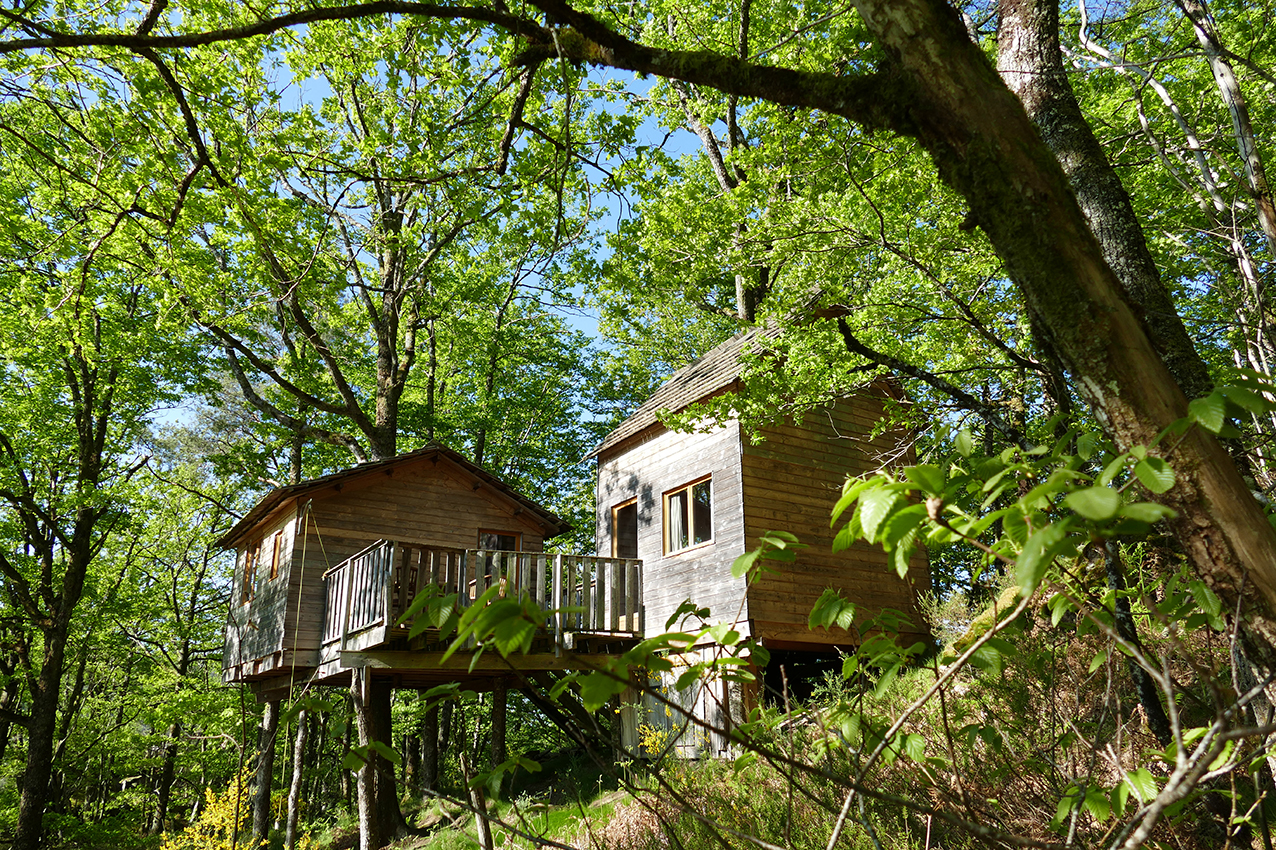
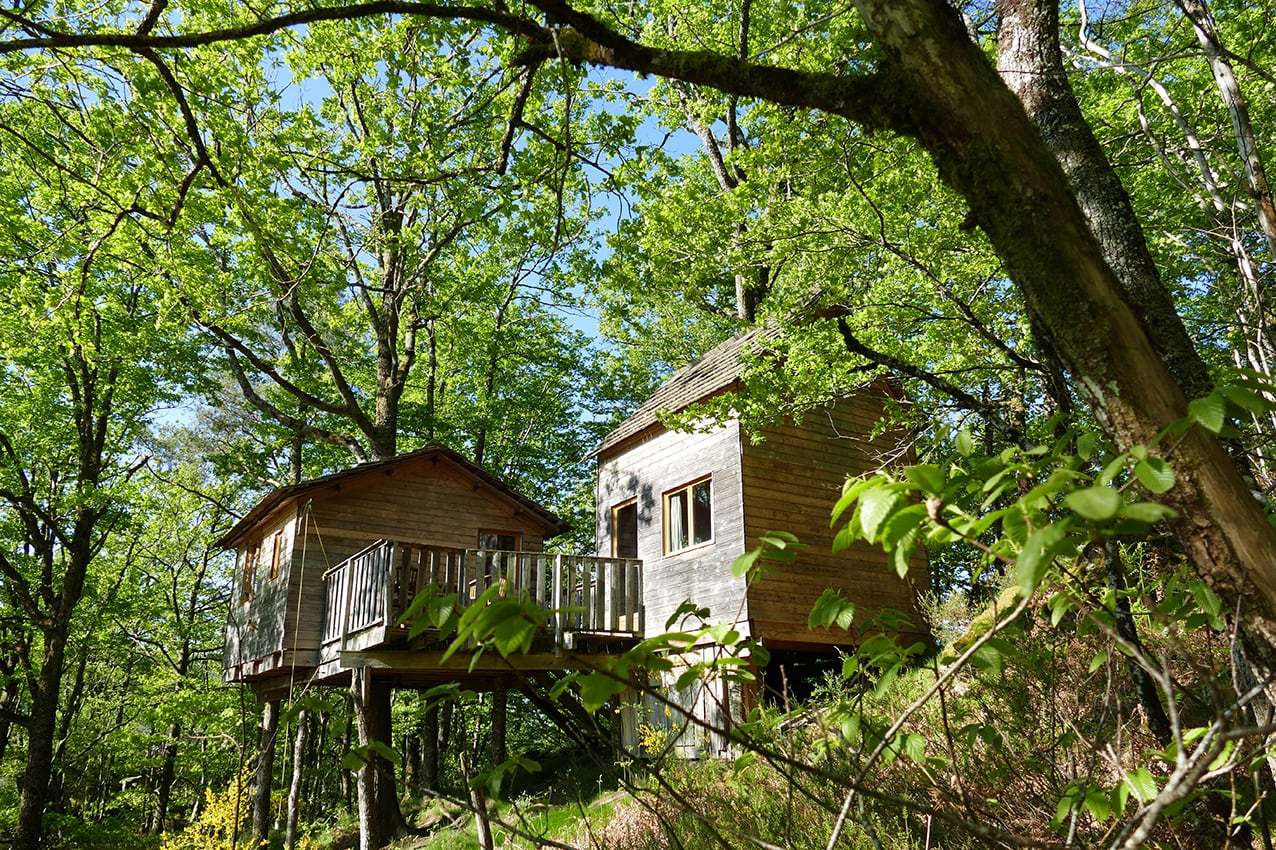
Revert gatsby-plugin-sharp config to default and reduce photos sizes

diff --git a/gatsby-config.js b/gatsby-config.js
@@ -31,14 +31,7 @@ module.exports = {
       },
     },
     'gatsby-plugin-image',
-    {
-      resolve: `gatsby-plugin-sharp`,
-      options: {
-        defaults: {
-          formats: [`auto`, `jpg`],
-        },
-      },
-    },
+    'gatsby-plugin-sharp',
     'gatsby-transformer-sharp',
     {
       resolve: 'gatsby-transformer-remark',
